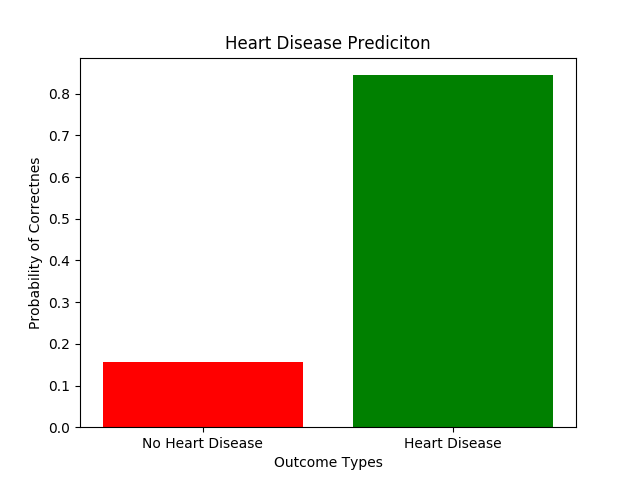
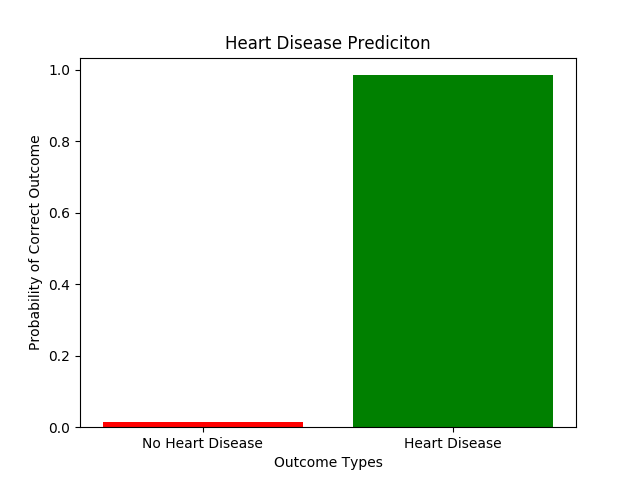
images now save in server/static folder

diff --git a/Project/MLTest.py b/Project/MLTest.py
@@ -14,55 +14,65 @@ from sklearn.model_selection import train_test_split
 from sklearn.decomposition import PCA
 from sklearn.ensemble import RandomForestClassifier
 from sklearn.metrics import confusion_matrix, accuracy_score
+from sklearn.neighbors import KNeighborsClassifier
 
 
 def pcaStuff():
     labels = ['age', 'sex', 'chest_pain_type', 'resting_blood_pressure', 'serum_cholesterol', 'fasting_blood_sugar', 'resting_electro', 'max_heart_rate', 'exercise_angina', 'oldpeak', 'slope_of_peak', 'no_of_colored_vessels', 'thal', 'target']
-    data = pd.read_csv("Project/data.csv", names=labels)
+    data = pd.read_csv("processed.cleveland_no_headers.csv", names=labels)
     data = data.replace('?', pd.np.nan).dropna()
-    data['thal'] = np.where(data.thal == '7.0', 'Reversible Defect', data.thal)
-    data['thal'] = np.where(data.thal == '6.0', 'Fixed Defect', data.thal)
-    data['thal'] = np.where(data.thal == '3.0', 'Normal', data.thal)
+    data['target'] = np.where(data.target == 0, 0, 1)
 
-
-    X = data.drop('thal', 1)
-    y = data['thal']
+    X = data.drop(['target','fasting_blood_sugar','resting_electro'], 1)
+    labels.remove('fasting_blood_sugar')
+    labels.remove('resting_electro')
+    labels.remove('target')
+    y = data['target']
     accuracy = []
 
-    for i in range(len(labels)-1):
-        print("******PCA Components = {}*******".format(i+1))
-        X_train, X_test, y_train, y_test = train_test_split(X,y, test_size=0.2, random_state=0)
-
-        scaler = StandardScaler()
-        X_train = scaler.fit_transform(X_train)
-        X_test = scaler.fit_transform(X_test)
-
-        pca = PCA(n_components=i+1)
-        X_train = pca.fit_transform(X_train)
-        X_test = pca.transform(X_test)
-
-        '''print(pca.explained_variance_ratio_)
-        i = 0
-        ratio = 0
-        while ratio < .95 and i < len(pca.explained_variance_ratio_):
-            ratio += pca.explained_variance_ratio_[i]
-            i += 1
-        
-        print("I = {} and Variance = {}".format(i,ratio))'''
-
-        classifier = RandomForestClassifier(max_depth=1, random_state=0)
-        classifier.fit(X_train, y_train)
-        y_pred = classifier.predict(X_test)
-
-        cm = confusion_matrix(y_test, y_pred)
-        #print(cm)
-        #print(accuracy_score(y_test, y_pred))
-        #print(y_pred)
-        accuracy.append(accuracy_score(y_test, y_pred))
     
-    plt.plot(accuracy)
+    print("******PCA Components = {}*******".format(12))
+    X_train, X_test, y_train, y_test = train_test_split(X,y, test_size=0.2, random_state=0)
+
+    scaler = StandardScaler()
+    X_train = scaler.fit_transform(X_train)
+    X_test = scaler.fit_transform(X_test)
+
+    '''
+    pca = PCA()
+    X_train = pca.fit_transform(X_train)
+    X_test = pca.transform(X_test)
+    '''
+    '''print(pca.explained_variance_ratio_)
+    i = 0
+    ratio = 0
+    while ratio < .95 and i < len(pca.explained_variance_ratio_):
+        ratio += pca.explained_variance_ratio_[i]
+        i += 1
+    
+    print("I = {} and Variance = {}".format(i,ratio))'''
+
+    classifier = RandomForestClassifier(max_depth=3, random_state=0, n_estimators=1000)
+    classifier.fit(X_train, y_train)
+    y_pred = classifier.predict(X_test)
+
+    cm = confusion_matrix(y_test, y_pred)
+    #print(cm)
+    #print(accuracy_score(y_test, y_pred))
+    #print(y_pred)
+    accuracy = accuracy_score(y_test, y_pred)
+    
+    print('Accuracy: {}'.format(accuracy*100))
+    '''plt.plot(accuracy)
     plt.xlabel("Number of PCA Components")
-    plt.ylabel("Accuracy of Predicting Thal Levels")
+    plt.ylabel("Accuracy of Predicting Target Value")
+    plt.show()'''
+    print(classifier.feature_importances_)
+    features = classifier.feature_importances_*100
+
+    
+    plt.bar(labels, features)
+    plt.xticks(rotation=45)
     plt.show()
 
 def pcaStuff2():
@@ -119,6 +129,44 @@ def pcaStuff2():
     plt.xlabel("Depth of Tree")
     plt.ylabel("Accuracy of Predicting Thal Levels")
     plt.legend(legendlabels,loc='upper center',ncol=4,bbox_to_anchor=[0.5, 1.15])
+    plt.show()
+
+def knn():
+    labels = ['age', 'sex', 'chest_pain_type', 'resting_blood_pressure', 'serum_cholesterol', 'fasting_blood_sugar', 'resting_electro', 'max_heart_rate', 'exercise_angina', 'oldpeak', 'slope_of_peak', 'no_of_colored_vessels', 'thal', 'target']
+    data = pd.read_csv("processed.cleveland_no_headers.csv", names=labels)
+    data = data.replace('?', pd.np.nan).dropna()
+    data['target'] = np.where(data.target == 0, 0, 1)
+
+    X = data.drop(['target'], 1)
+    labels.remove('fasting_blood_sugar')
+    labels.remove('resting_electro')
+    labels.remove('target')
+    y = data['target']
+    accuracy = []
+
+    X_train, X_test, y_train, y_test = train_test_split(X,y, test_size=0.2, random_state=0)
+
+    scaler = StandardScaler()
+    X_train = scaler.fit_transform(X_train)
+    X_test = scaler.fit_transform(X_test)
+
+    for i in range(1,51):
+        classifier = KNeighborsClassifier(n_neighbors=i)
+        classifier.fit(X_train, y_train)
+        y_pred = classifier.predict(X_test)
+        print(y_pred)
+
+
+        cm = confusion_matrix(y_test, y_pred)
+        #print(cm)
+        #print(accuracy_score(y_test, y_pred))
+        #print(y_pred)
+        accuracy.append(accuracy_score(y_test, y_pred))
+        
+    
+    plt.plot(accuracy)
+    plt.xlabel("Number of Nearest Neighbours")
+    plt.ylabel("Accuracy of Predicting Target Value")
     plt.show()
 
 def allPlots():
@@ -269,4 +317,5 @@ def neuralNetworkLearning():
     plt.show()
     
 #allPlots()
-neuralNetworkLearning()
+#neuralNetworkLearning()
+knn()

diff --git a/Project/predictor.py b/Project/predictor.py
@@ -31,6 +31,7 @@ class Predictor():
         self.heartData = self.loadData()
         self.createScaler()
         self.initialiseNN()
+        self.calculateImportantFeatures()
     
     #Load in the heart data from the database, swap 
     def loadData(self):
@@ -59,7 +60,7 @@ class Predictor():
     #Create a min max scaler to scale all input data to the same scale
     def createScaler(self):
         #Need to scale data to uniform [0,1] range
-        self.scaler = MinMaxScaler()
+        self.scaler = StandardScaler()
 
         #Remove label data from total data set
         xData = self.heartData.drop(['Target'], axis=1)
@@ -142,13 +143,14 @@ class Predictor():
             if(correctness >= 92):
                 break
 
-
+        #Plot the Neural Network Training Accuracy Over time
         plt.plot(accuracyList)
 
         plt.xlabel("Epoch Count")
         plt.ylabel("Model Accuracy (%)")
-        plt.savefig('neuralNetworkAccuracy.png')
+        plt.savefig('Server/static/images/neuralNetworkAccuracy.png')
 
+        #Save the neuralNetwork model and start it for evaluations
         torch.save(self.dataModel, 'neuralNetwork.pt')
         self.dataModel.eval()
 
@@ -190,12 +192,45 @@ class Predictor():
         plt.bar(['No Heart Disease', 'Heart Disease'], diseaseProbabilities, color = colors)
         plt.title('Heart Disease Prediciton')
         plt.xlabel('Outcome Types')
-        plt.ylabel('Probability of Correctnes')
+        plt.ylabel('Probability of Correct Outcome')
         #Save the figure as a file to be displayed by webpage
-        plt.savefig('diseaseProbability.png')
+        plt.savefig('Server/static/images/diseaseProbability.png')
 
         
         return (predictedValue, diseaseProbabilities)
+
+    def calculateImportantFeatures(self):
+        '''
+        Using a Random Forest, calculate the importance of each feature variable.
+        Creates a png plot, 'featureImportance.png', with these feature values.
+        '''
+
+        #Store both the attribute values, X, and the labels for these attributes
+        X = self.heartData.drop(['Target'], 1)
+        labels = [' '.join(c.split('_')) for c in X.columns]
+
+        #Store all the target labels
+        y = self.heartData['Target']
+
+        #Split the data into training and testing data with an 80/20 split
+        xTrain, xTest, yTrain, yTest = train_test_split(X,y, test_size=0.2, random_state=0)
+
+        #Use Standard Distibution Scaling to scale data
+        scaler = StandardScaler()
+        xTrain = scaler.fit_transform(xTrain)
+        xTest = scaler.fit_transform(xTest)
+
+        #Create a Random Forest with 100 Trees of depth 3 max
+        classifier = RandomForestClassifier(max_depth=3, random_state=0, n_estimators=100)
+        #Fit the model to our training data
+        classifier.fit(xTrain, yTrain)
+        
+        #Get the importance of each feature, 
+        features = classifier.feature_importances_*100
+        plt.figure(1,(12,12),300)
+        plt.bar(labels, features)
+        plt.xticks(rotation=45)
+        plt.savefig('Server/static/images/featureImportance.png')
 
 
 
@@ -205,8 +240,7 @@ To Predict an Outcome first create a Predictor object (1)
 Then call obj.nnPredict(List) (2) to predict the outcome of Having Heart Disease
 Pass in a List of 13 Attribute Values to nnPredict()
 
-Example:
-attrList = [67.0,1.0,4.0,125.0,254.0,1.0,0.0,163.0,0.0,0.2,2.0,2.0,7.0]
+Example:'''
+attrList = [62.0,1.0,4.0,120.0,267.0,0.0,0.0,99.0,1.0,1.8,2.0,2.0,7.0]
 predictor = Predictor()
 predictedValue, probabilityList = predictor.nnPredict(attrList)
-'''
